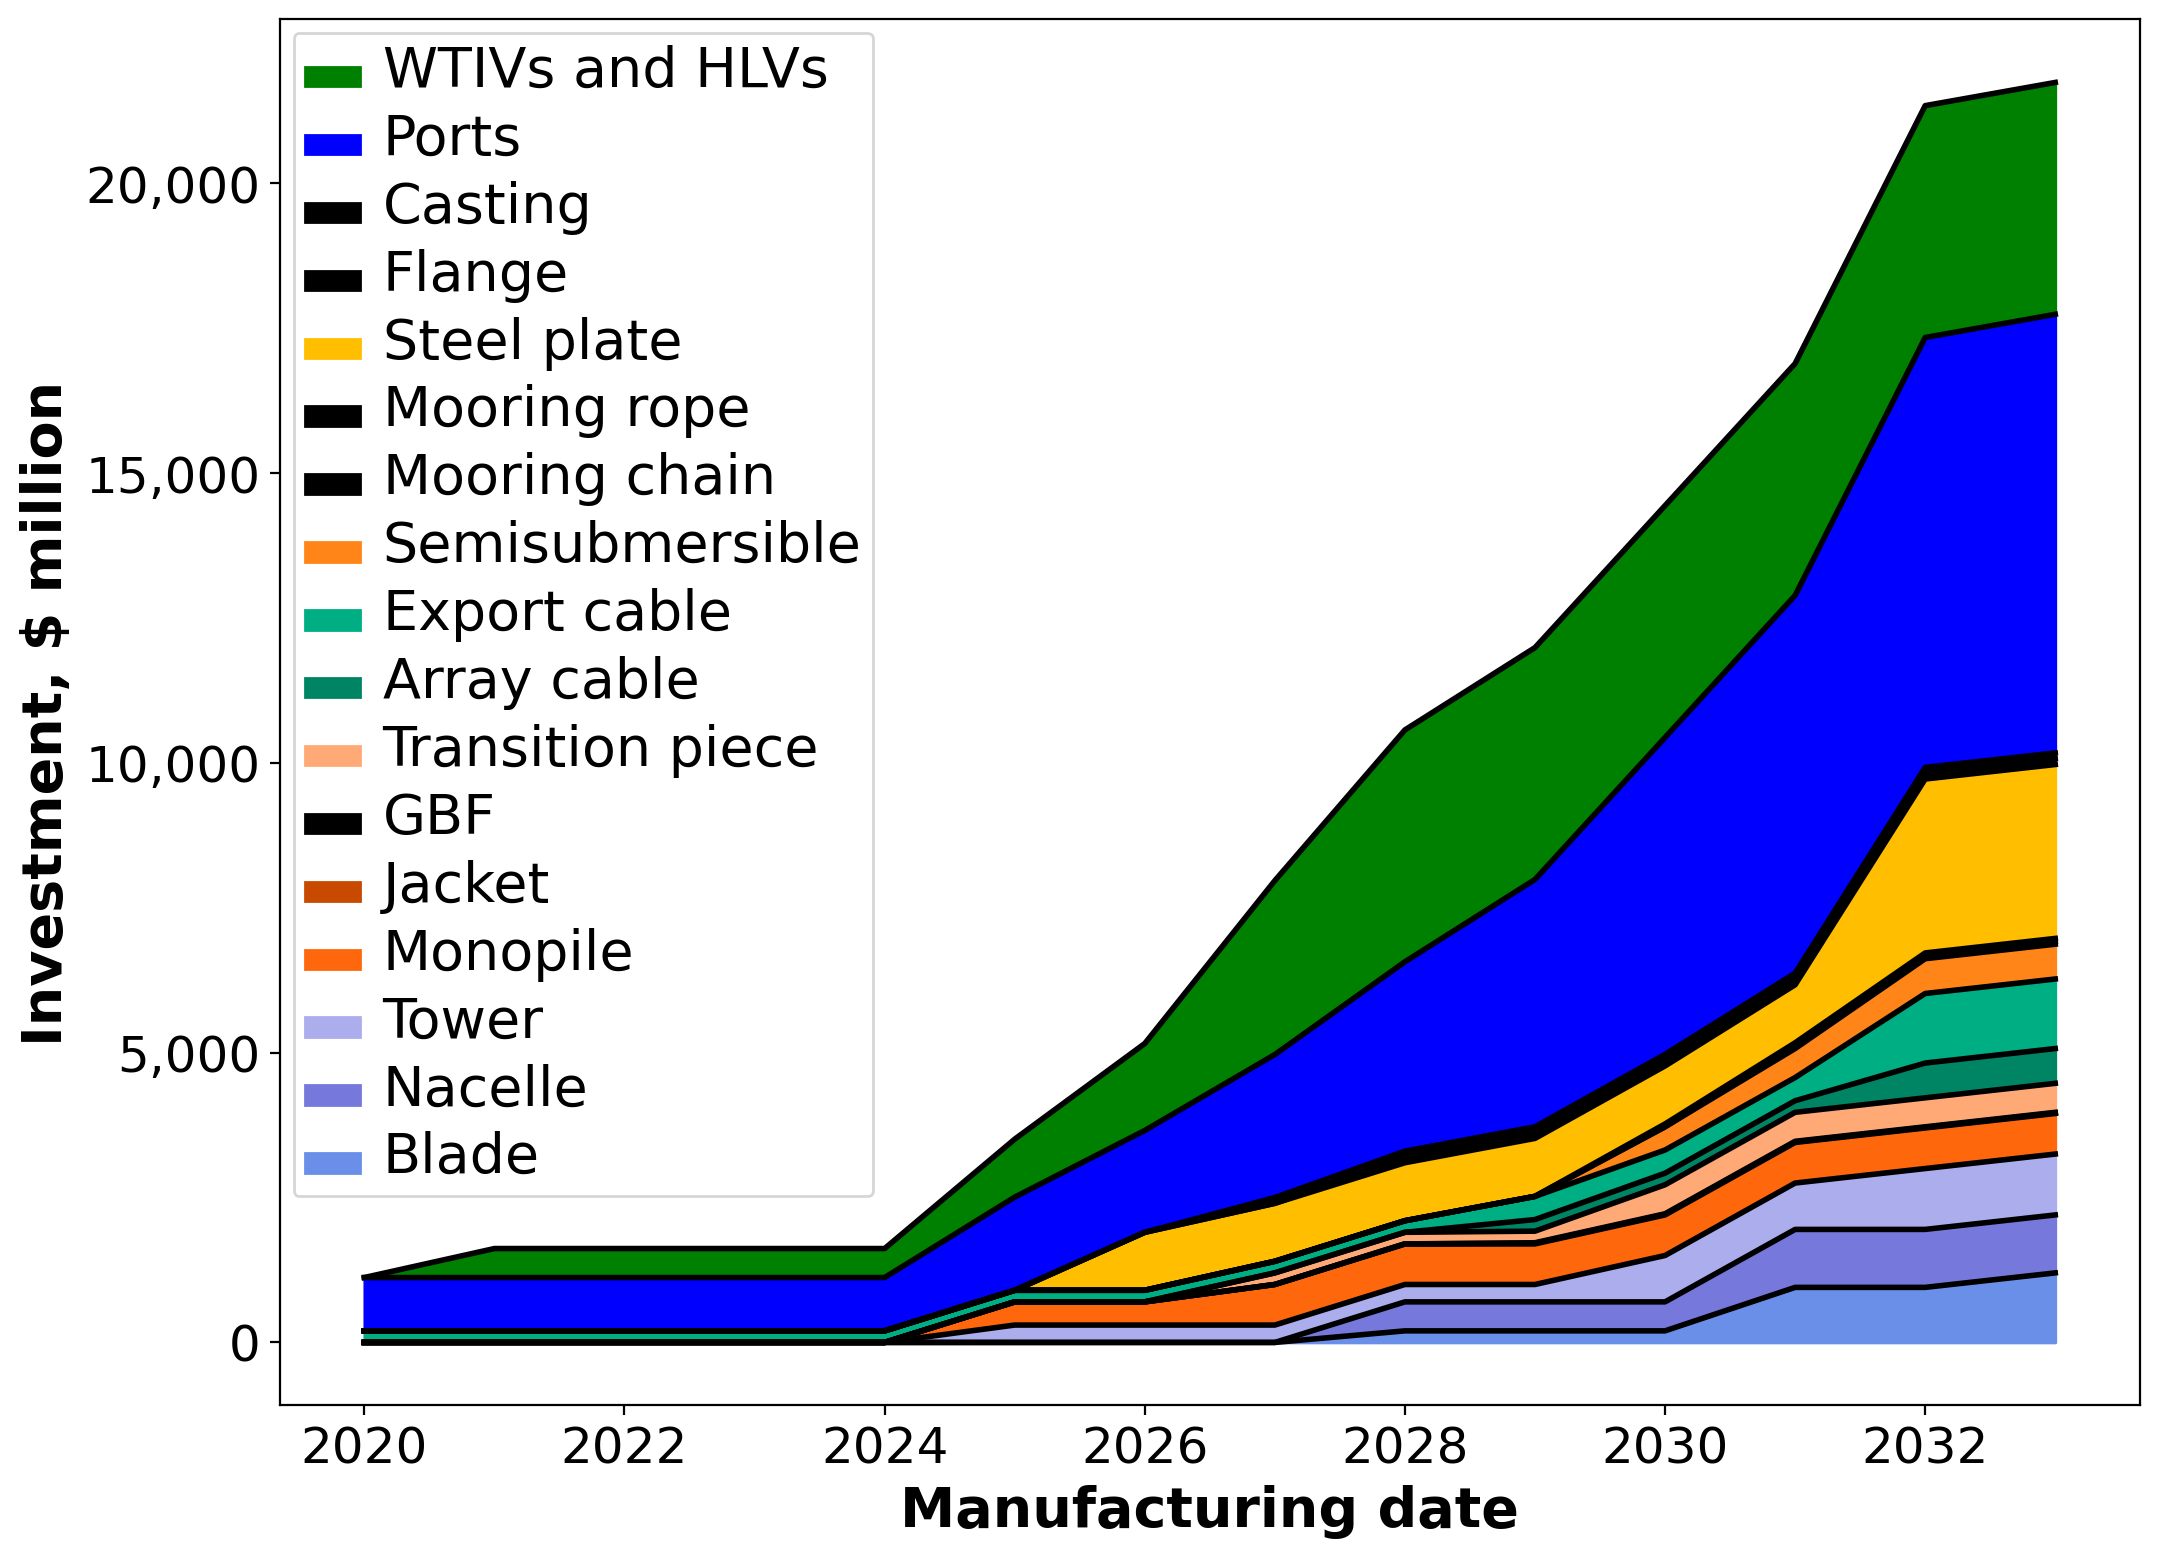
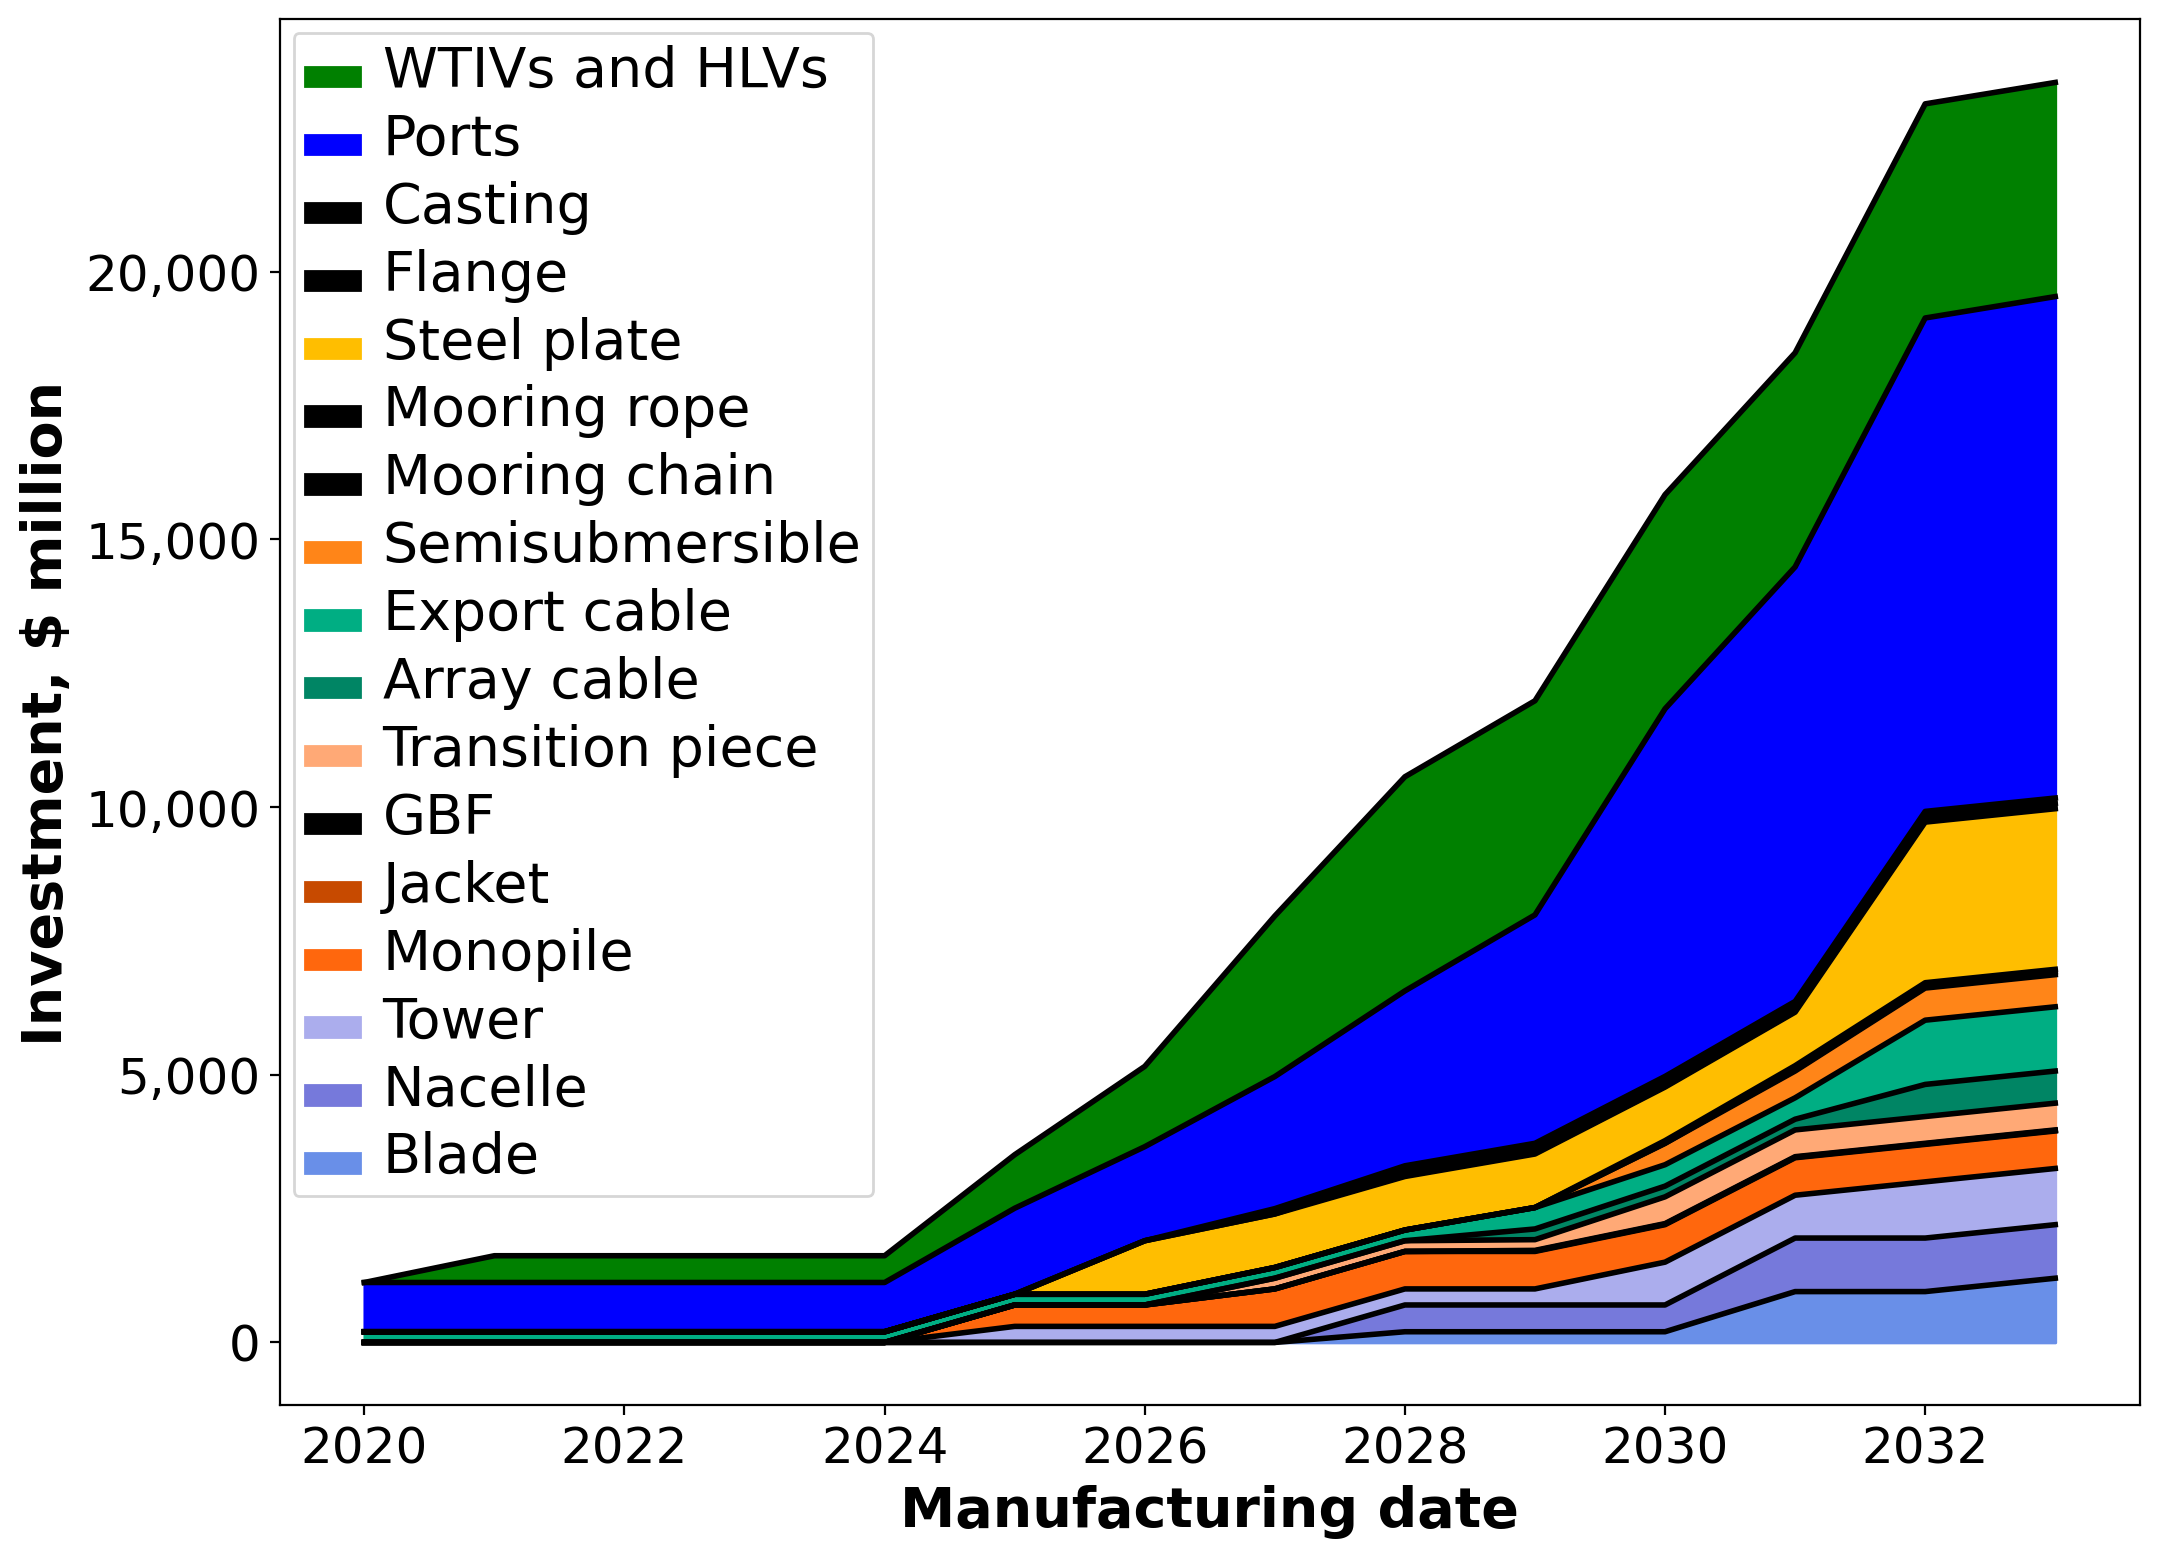
Updated port investment schedule to included floating marshaling ports

diff --git a/helpers.py b/helpers.py
@@ -37,7 +37,7 @@ job_breakdown = {'Design and engineering': .03,
 
 # Copy vessel/port investment schedule from CORAL/investment_schedule.CSV
 # TODO: make this dynamic
-ports_inv = np.cumsum([770, 0, 0, 0, 0, 387, 0, 260, 200, 400, 0, 0, 0, 0])
+ports_inv = np.cumsum([770, 0, 0, 0, 0, 387, 0, 260, 200, 400, 1400, 200, 200, 0])
 vessel_inv = np.cumsum([0, 500, 0, 0, 0, 500, 500, 1500, 1000, 0, 0, 0, 0, 0])
 
 
@@ -53,7 +53,7 @@ ymax_plots = {'Monopile': 350,
     'Export cable': 2000,
     'WTIV': 6,
     'Steel plate': 1200000,
-    'Casting': 700,
+    'Casting': 1000,
     'Flange': 5000,
     'Mooring chain': 2500,
     'Mooring rope': 2500,
